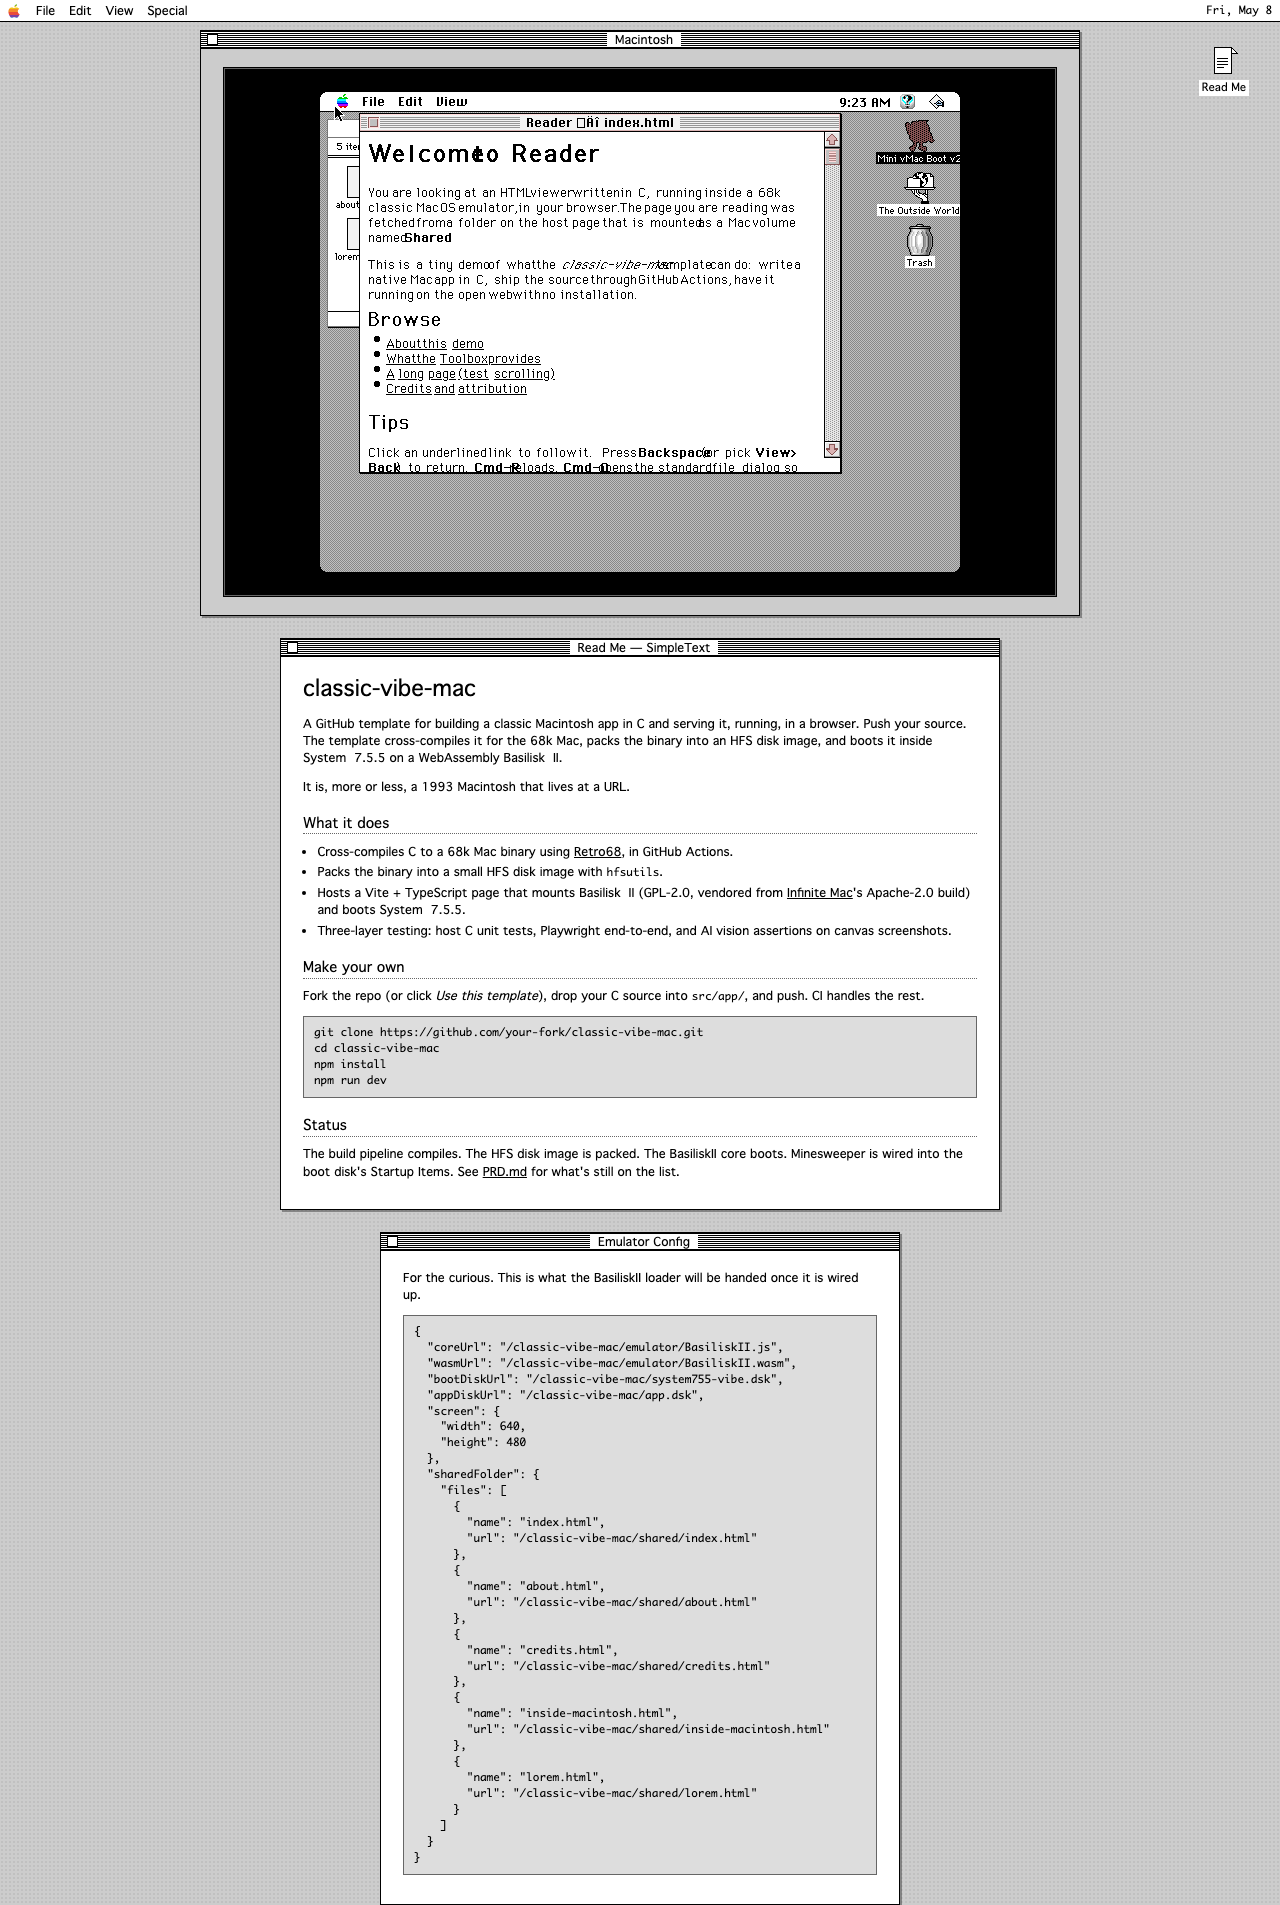
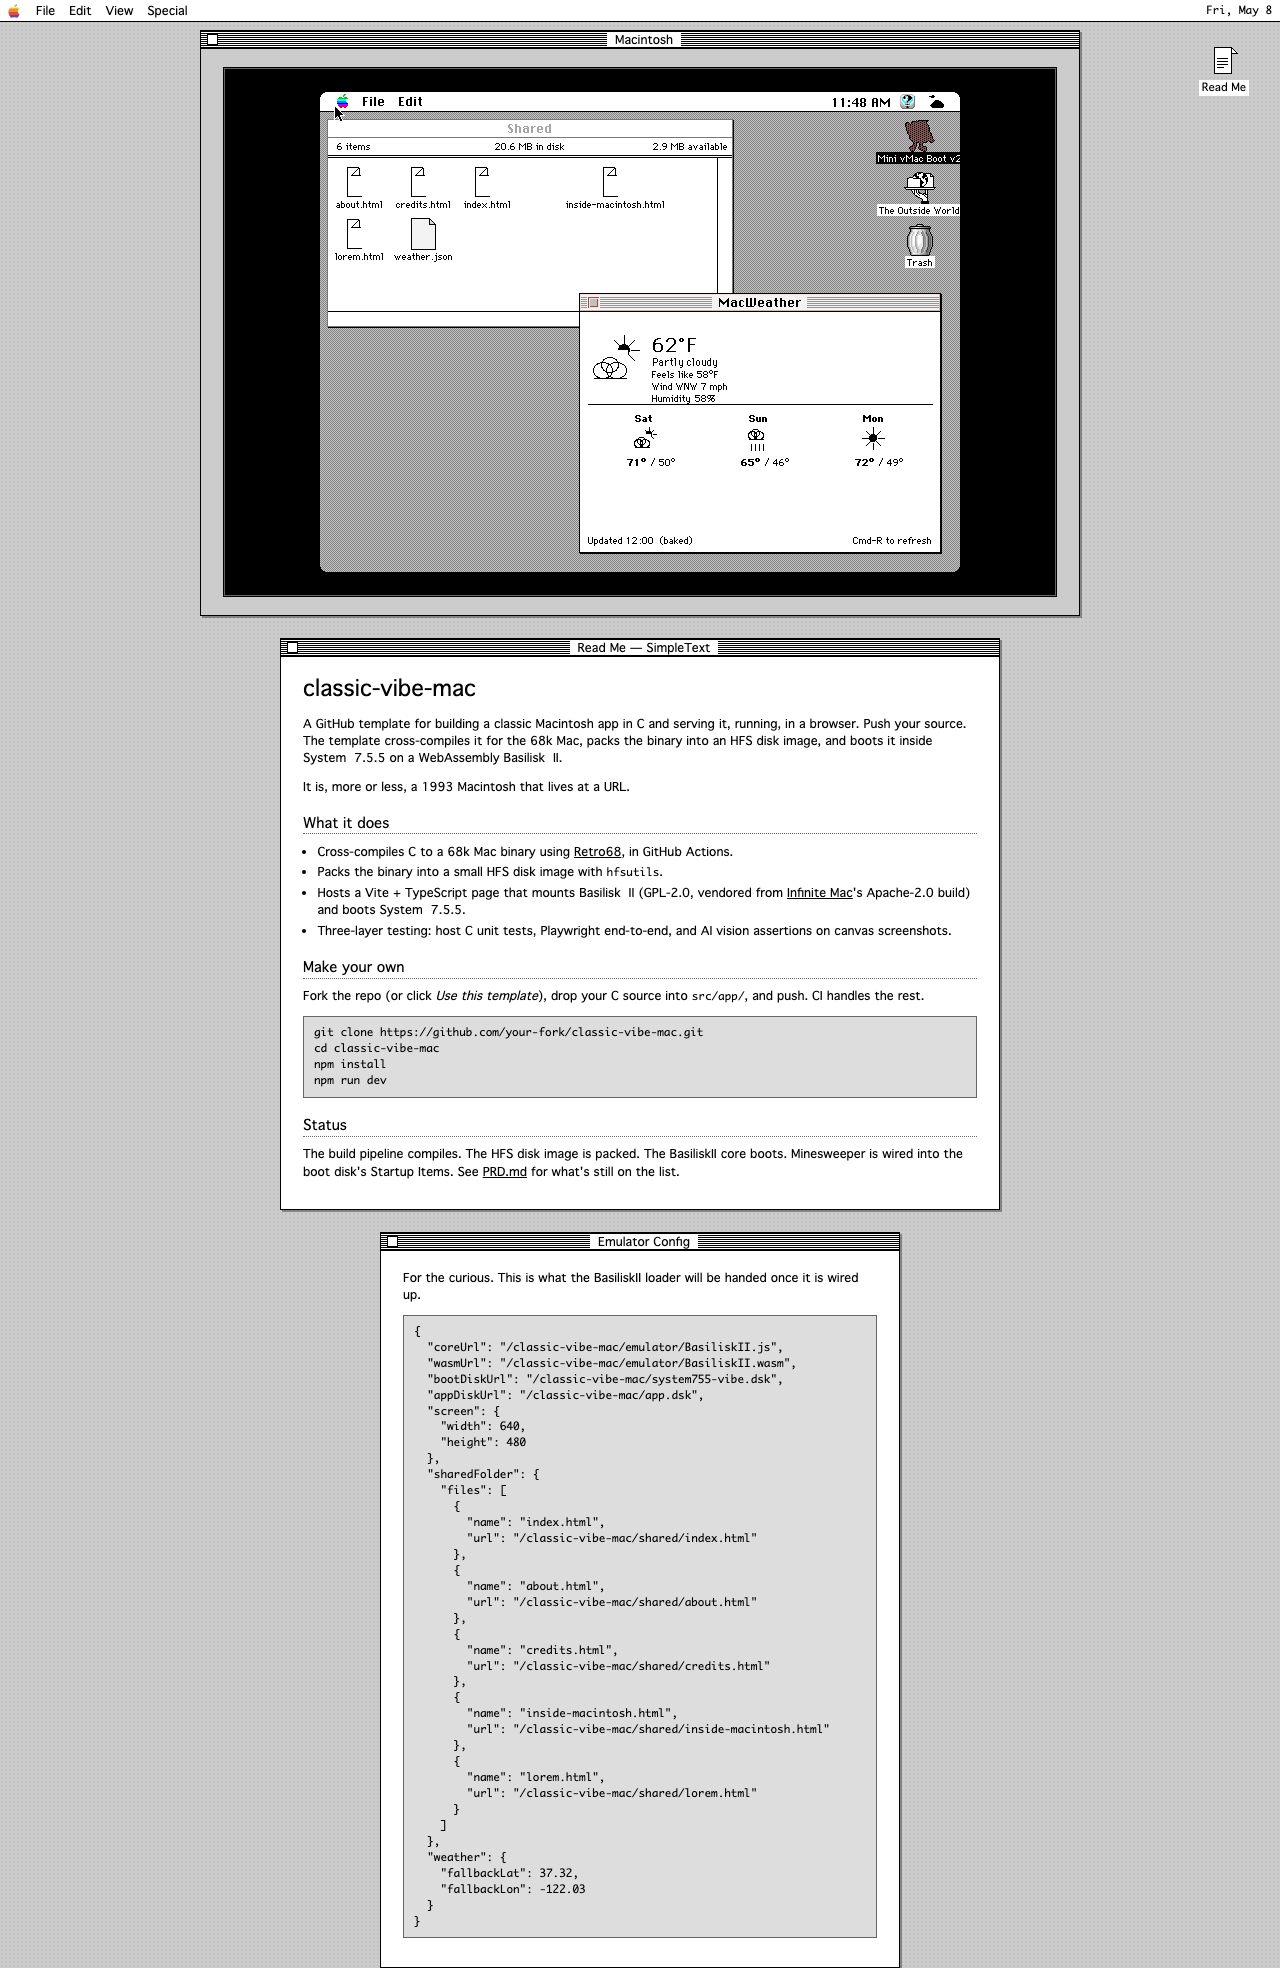
docs(chrome): update Read Me + README to reflect Reader + MacWeather both running
Page chrome's 'What it does' list and 'Status' line still pitched
this as a single-app project (referencing Minesweeper, no less). Now
mentions both demo apps on the boot disk and that they auto-launch
side by side.

README screenshot caption updated to match what the live deploy
actually shows: both apps running, MacWeather in front with the
3-day forecast, Reader behind with the :Shared: folder open. Added
a sentence explaining the two-way data flow (JS host fetches
weather, drops it into the Mac, MacWeather reads + renders) since
that's the architectural story this whole project just earned the
right to tell.

Updated public/screenshot-deployed.png with the fresh capture from
the live page after PR #18 deployed.

Changed region(s): [[0.1562, 0.0, 0.8438, 0.9601], [0.9375, 0.0, 0.9688, 0.0619]]

diff --git a/src/web/src/main.ts b/src/web/src/main.ts
@@ -109,12 +109,20 @@ root.innerHTML = /* html */ `
         <li>Cross-compiles C to a 68k Mac binary using
           <a href="https://github.com/autc04/Retro68">Retro68</a>, in
           GitHub Actions.</li>
-        <li>Packs the binary into a small HFS disk image with
-          <code>hfsutils</code>.</li>
+        <li>Packs the binary into a bootable HFS System&nbsp;7.5.5 disk
+          with <code>hfsutils</code>; the Finder auto-launches it
+          on boot.</li>
         <li>Hosts a Vite + TypeScript page that mounts Basilisk&nbsp;II
           (GPL-2.0, vendored from
           <a href="https://github.com/mihaip/infinite-mac">Infinite Mac</a>'s
           Apache-2.0 build) and boots System&nbsp;7.5.5.</li>
+        <li>Ships two demo apps side-by-side:
+          <a href="https://github.com/khawkins98/classic-vibe-mac/tree/main/src/app/reader">Reader</a>
+          (a tiny HTML viewer that reads from <code>:Shared:</code> on
+          the boot disk) and
+          <a href="https://github.com/khawkins98/classic-vibe-mac/tree/main/src/app/macweather">MacWeather</a>
+          (live forecast data via a JS poller, rendered with 1-bit
+          QuickDraw glyphs).</li>
         <li>Three-layer testing: host C unit tests, Playwright end-to-end,
           and AI vision assertions on canvas screenshots.</li>
       </ul>
@@ -131,9 +139,9 @@ npm run dev</pre>
 
       <h2>Status</h2>
       <p>
-        The build pipeline compiles. The HFS disk image is packed. The
-        BasiliskII core boots. Minesweeper is wired into the boot disk's
-        Startup Items. See
+        The pipeline runs end-to-end. Two apps ship on the boot disk
+        and the Finder auto-launches them. Reader renders HTML; MacWeather
+        renders the live forecast. See
         <a href="https://github.com/khawkins98/classic-vibe-mac/blob/main/PRD.md">PRD.md</a>
         for what's still on the list.
       </p>

diff --git a/README.md b/README.md
@@ -13,13 +13,15 @@ It is, more or less, a 1993 Macintosh that lives at a URL.
 
 ## What it looks like
 
-![Live deployed page: System 7 desktop chrome around the BasiliskII emulator window. System 7.5.5 has booted, Reader (the demo HTML viewer app) auto-launched from Startup Items, and is showing "Welcome to Reader" with browseable links to other HTML pages. Read Me window underneath describes the project; Emulator Config window at the bottom shows the live JSON config.](public/screenshot-deployed.png)
+![Live deployed page: System 7 desktop with two demo apps running side-by-side. Reader is open behind, showing the :Shared: folder of bundled HTML files plus weather.json. MacWeather is in front, rendering 62°F partly cloudy with a Sat/Sun/Mon forecast in 1-bit pixel-art QuickDraw glyphs. Read Me window below describes the project.](public/screenshot-deployed.png)
 
-The screenshot above is the deployed page right now: System 7.5.5 boots
-in the browser, the Finder runs through Startup Items, and our Reader
-demo app launches and renders `:Shared:index.html` from the boot disk.
-Click the links inside Reader and they actually navigate to the other
-bundled pages.
+The screenshot above is the deployed page right now: System 7.5.5
+boots in the browser, the Finder runs Startup Items, and both demo
+apps auto-launch — **Reader** rendering HTML from the boot disk's
+`:Shared:` folder, and **MacWeather** rendering live forecast data
+that the host page is fetching from `open-meteo.org` and dropping
+into the Mac at `/Shared/weather.json`. Two-way data flow between
+the JS host and the emulated Mac, in 1-bit Geneva 12.
 
 ## What it does
 
